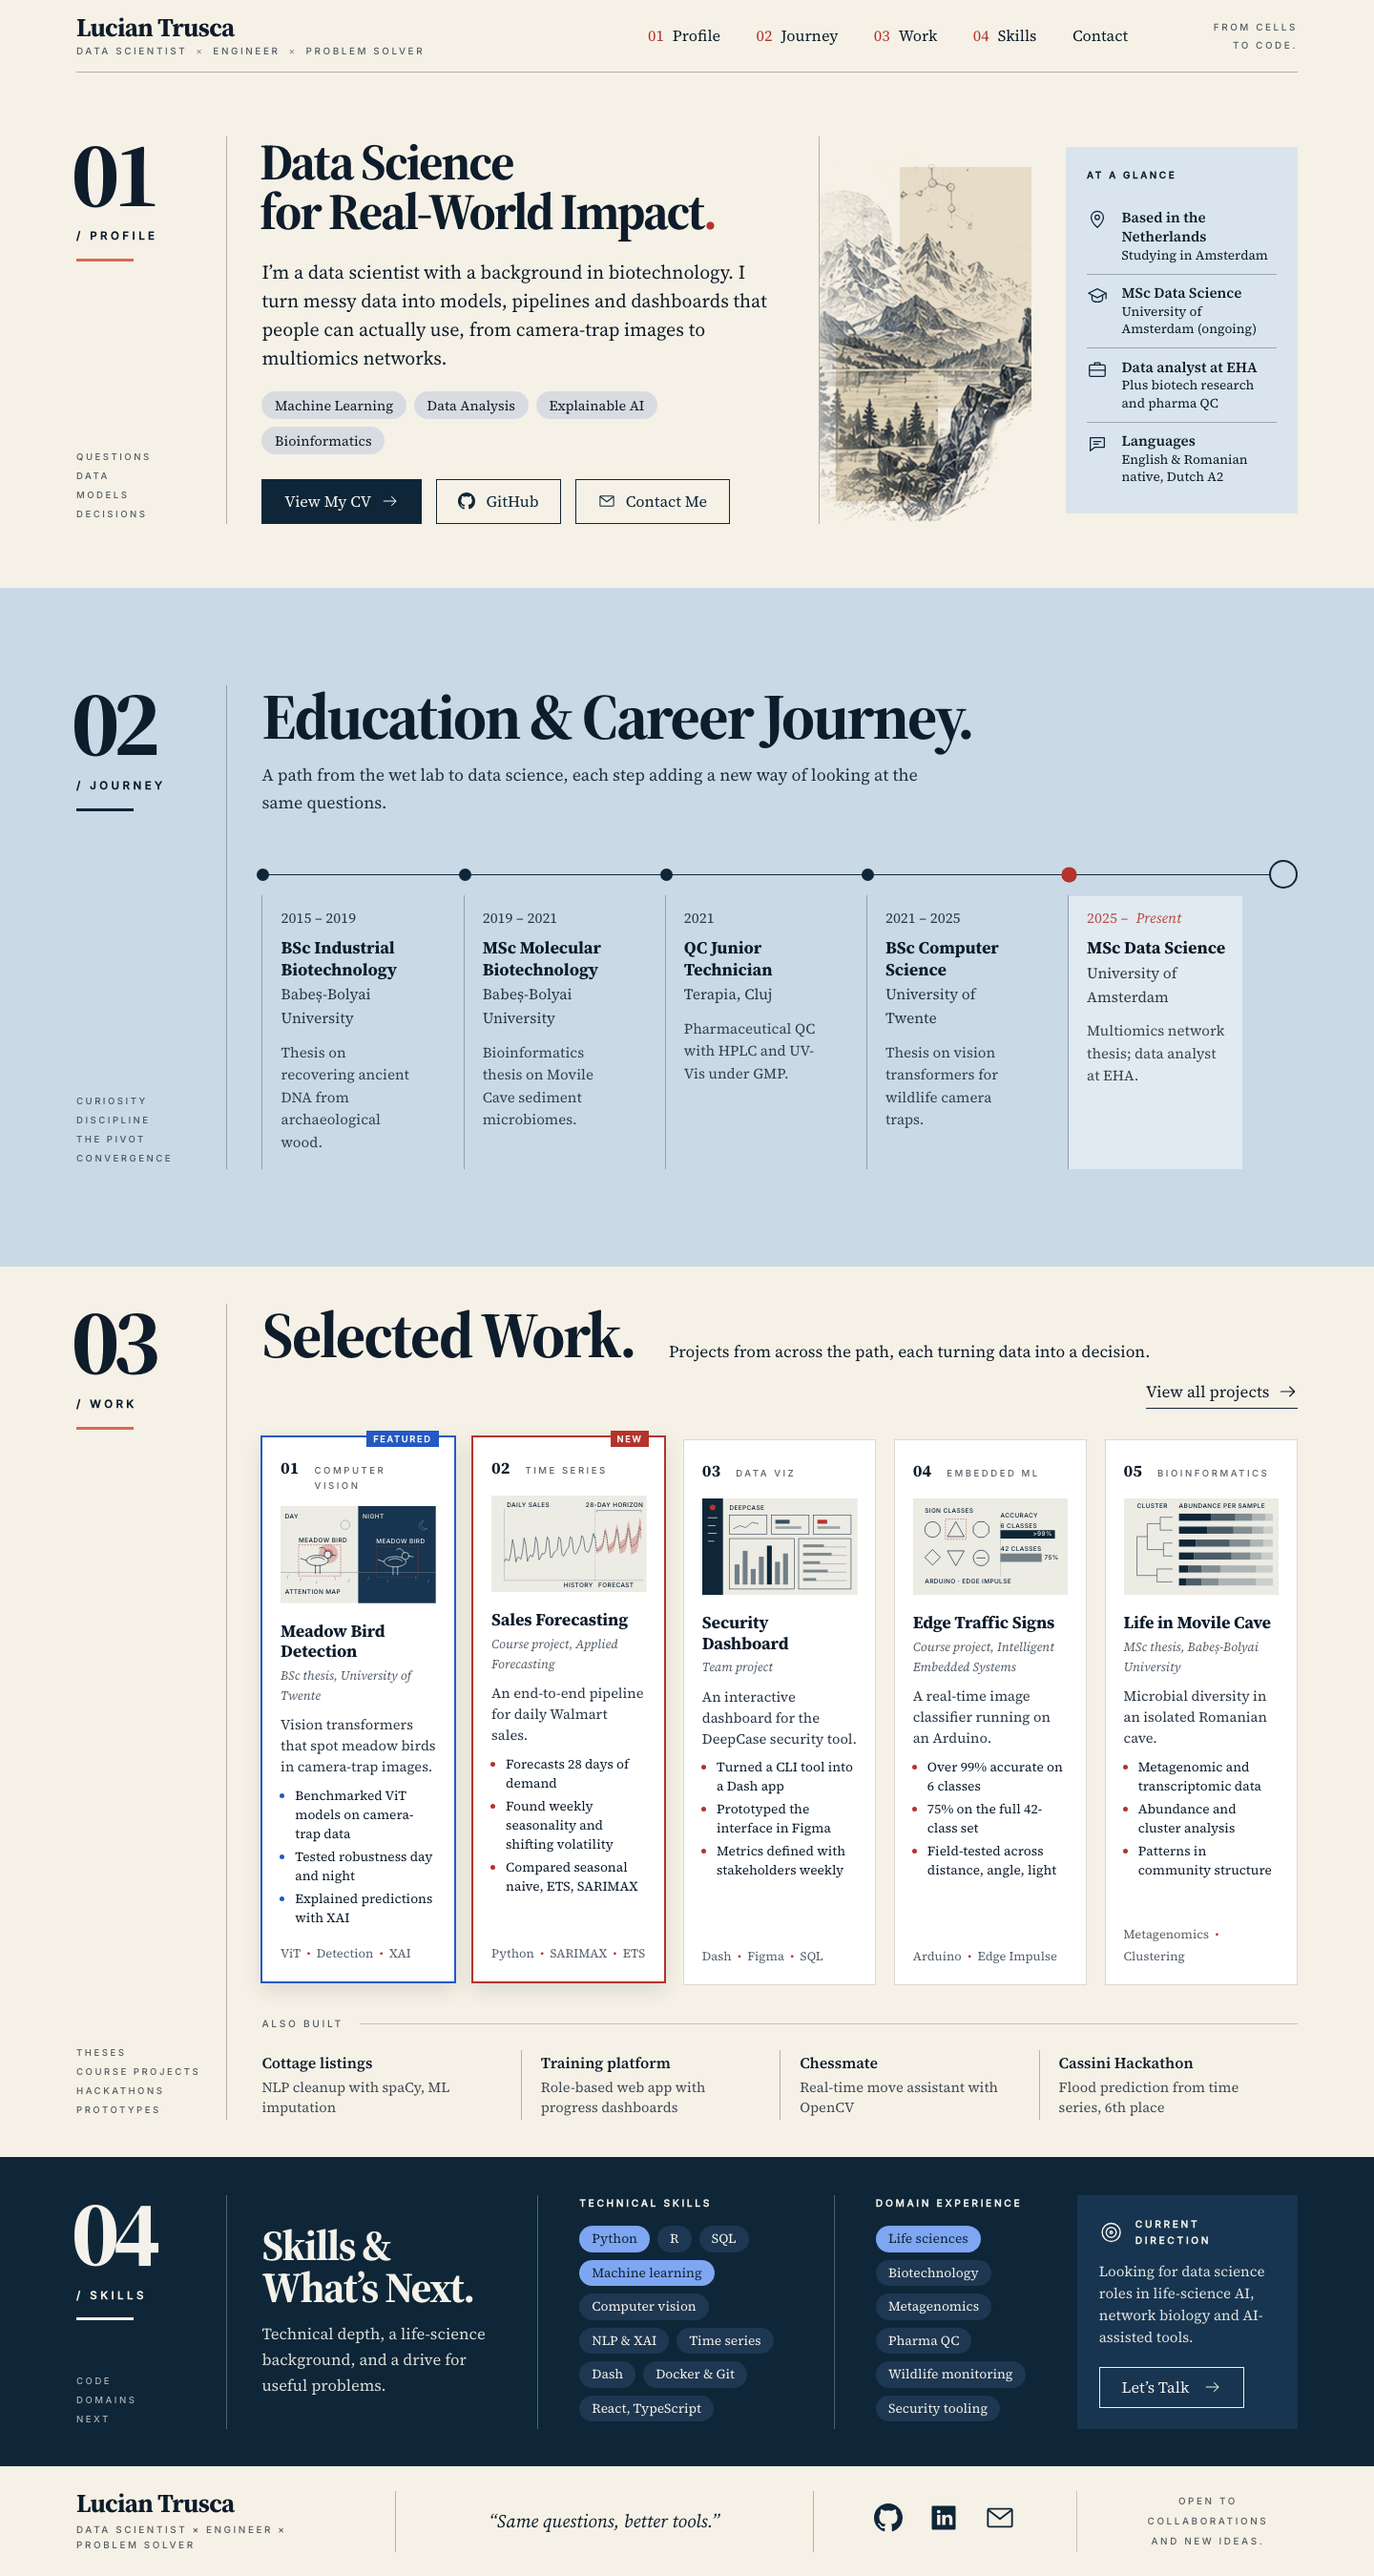
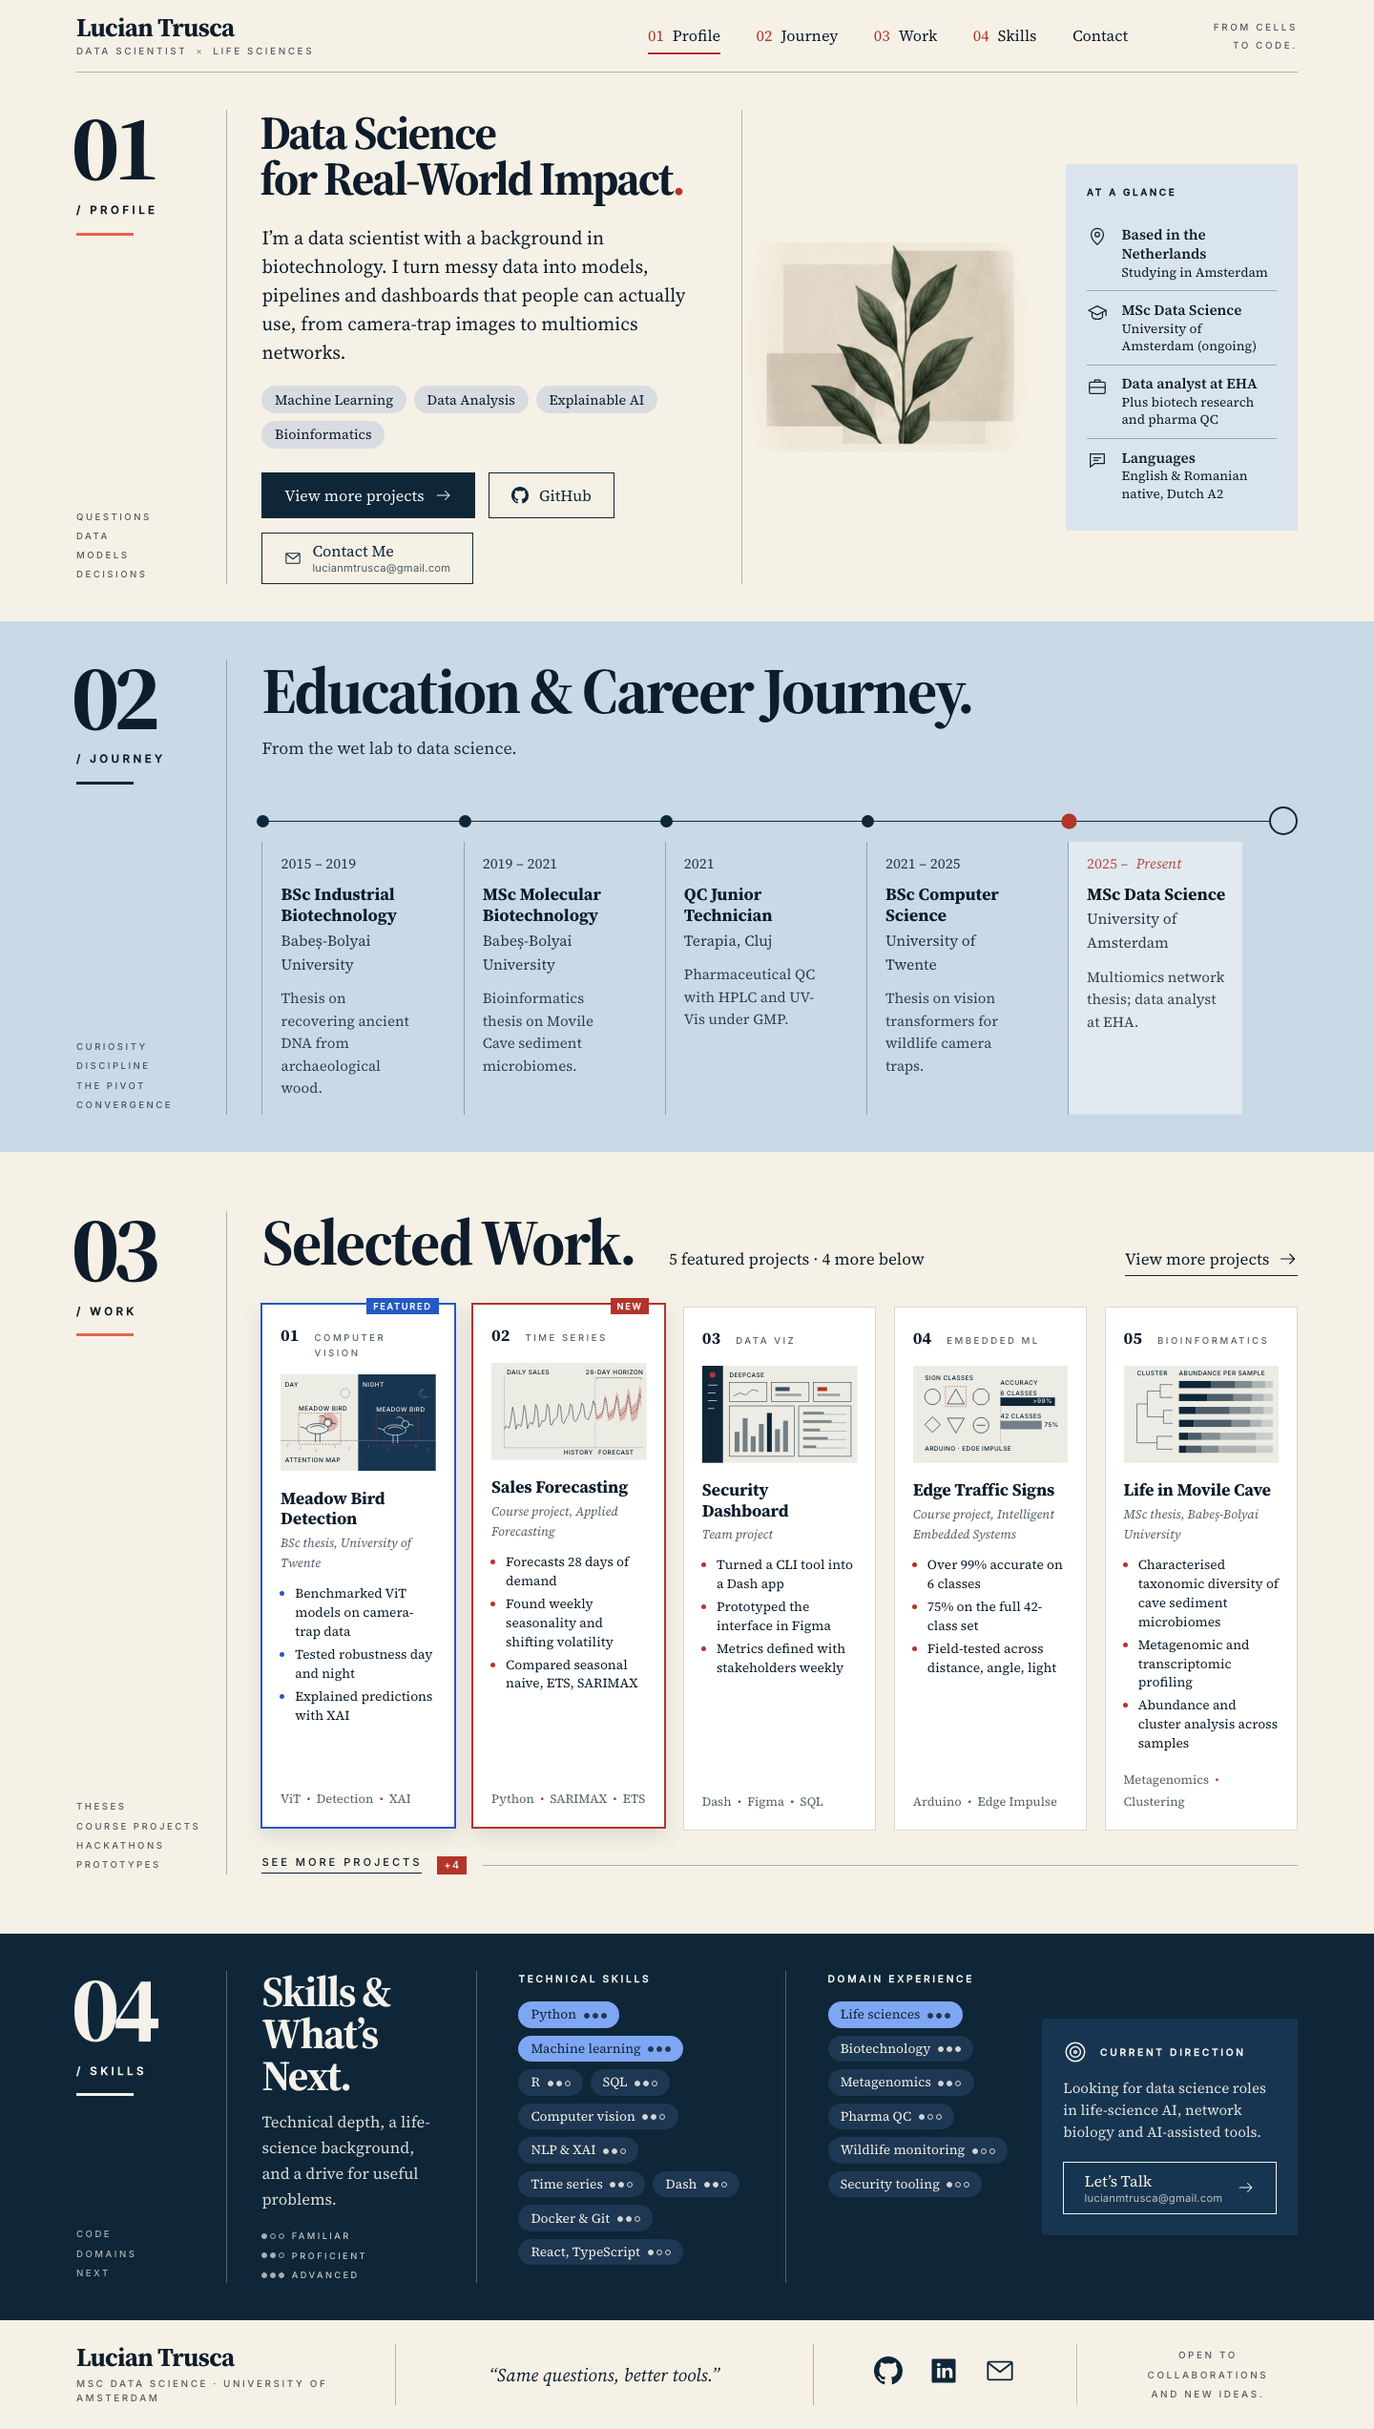
Leaf art, more-projects links, skill levels, see-more cards, nav highlight
Owner's revision list on top of cv-impact: leaf image, 'View more projects'
to GitHub, email on contact buttons, 1-3 level dots on skills, tagline and
footer line, shorter journey subtitle with content height, card descriptions
dropped, four extra projects behind 'See more', active-section nav.

diff --git a/src/data/site.ts b/src/data/site.ts
@@ -5,7 +5,7 @@ export const person = {
   email: 'lucianmtrusca@gmail.com',
   github: 'https://github.com/luciantrusca',
   linkedin: 'https://www.linkedin.com/in/lucian-trusca/',
-  tagline: ['Data scientist', 'Engineer', 'Problem solver'],
+  tagline: ['Data scientist', 'Life sciences'],
   motto: ['From cells', 'to code.'],
 };
 
@@ -27,7 +27,7 @@ export const profile = {
 export const journey = {
   keywords: ['Curiosity', 'Discipline', 'The pivot', 'Convergence'],
   title: 'Education & Career Journey.',
-  subtitle: 'A path from the wet lab to data science, each step adding a new way of looking at the same questions.',
+  subtitle: 'From the wet lab to data science.',
   steps: [
     { dates: '2015 – 2019', title: 'BSc Industrial Biotechnology', place: 'Babeș-Bolyai University', text: 'Thesis on recovering ancient DNA from archaeological wood.' },
     { dates: '2019 – 2021', title: 'MSc Molecular Biotechnology', place: 'Babeș-Bolyai University', text: 'Bioinformatics thesis on Movile Cave sediment microbiomes.' },
@@ -42,50 +42,53 @@ export type Badge = 'featured' | 'new';
 
 export const work = {
   keywords: ['Theses', 'Course projects', 'Hackathons', 'Prototypes'],
-  intro: 'Projects from across the path, each turning data into a decision.',
-  allProjects: 'https://github.com/luciantrusca?tab=repositories',
+  moreProjects: 'https://github.com/luciantrusca?tab=repositories',
   projects: [
     {
       badge: 'featured' as Badge, area: 'Computer vision', figure: 'birds' as Figure, title: 'Meadow Bird Detection',
-      text: 'Vision transformers that spot meadow birds in camera-trap images.',
       bullets: ['Benchmarked ViT models on camera-trap data', 'Tested robustness day and night', 'Explained predictions with XAI'],
       tags: ['ViT', 'Detection', 'XAI'],
       role: 'BSc thesis, University of Twente',
     },
     {
       badge: 'new' as Badge, area: 'Time series', figure: 'forecast' as Figure, title: 'Sales Forecasting',
-      text: 'An end-to-end pipeline for daily Walmart sales.',
       bullets: ['Forecasts 28 days of demand', 'Found weekly seasonality and shifting volatility', 'Compared seasonal naive, ETS, SARIMAX'],
       tags: ['Python', 'SARIMAX', 'ETS'],
       role: 'Course project, Applied Forecasting',
     },
     {
       area: 'Data viz', figure: 'dashboard' as Figure, title: 'Security Dashboard',
-      text: 'An interactive dashboard for the DeepCase security tool.',
       bullets: ['Turned a CLI tool into a Dash app', 'Prototyped the interface in Figma', 'Metrics defined with stakeholders weekly'],
       tags: ['Dash', 'Figma', 'SQL'],
       role: 'Team project',
     },
     {
       area: 'Embedded ML', figure: 'signs' as Figure, title: 'Edge Traffic Signs',
-      text: 'A real-time image classifier running on an Arduino.',
       bullets: ['Over 99% accurate on 6 classes', '75% on the full 42-class set', 'Field-tested across distance, angle, light'],
       tags: ['Arduino', 'Edge Impulse'],
       role: 'Course project, Intelligent Embedded Systems',
     },
     {
       area: 'Bioinformatics', figure: 'cave' as Figure, title: 'Life in Movile Cave',
-      text: 'Microbial diversity in an isolated Romanian cave.',
-      bullets: ['Metagenomic and transcriptomic data', 'Abundance and cluster analysis', 'Patterns in community structure'],
+      bullets: ['Characterised taxonomic diversity of cave sediment microbiomes', 'Metagenomic and transcriptomic profiling', 'Abundance and cluster analysis across samples'],
       tags: ['Metagenomics', 'Clustering'],
       role: 'MSc thesis, Babeș-Bolyai University',
     },
   ],
-  also: [
-    { title: 'Cottage listings', text: 'NLP cleanup with spaCy, ML imputation' },
-    { title: 'Training platform', text: 'Role-based web app with progress dashboards' },
-    { title: 'Chessmate', text: 'Real-time move assistant with OpenCV' },
-    { title: 'Cassini Hackathon', text: 'Flood prediction from time series, 6th place' },
+  // revealed by "See more projects"
+  extra: [
+    { area: 'NLP', title: 'Cottage Listings Cleanup', role: 'Data science & AI project',
+      bullets: ['Cleaned a real-world JSON dataset of listings', 'Standardised descriptions with spaCy', 'Filled missing values with ML models'],
+      tags: ['Python', 'spaCy', 'NLP'] },
+    { area: 'Web app', title: 'Training Management System', role: 'Course project, Data & Information',
+      bullets: ['Role-based app for admins, trainers, trainees', 'Courses, groups and progress tracking', 'Trainee dashboards with schedules'],
+      tags: ['JavaScript', 'SQL', 'REST'] },
+    { area: 'HCI', title: 'Chessmate Helper', role: 'Course project, Human Computer Interaction',
+      bullets: ['AI chess assistant with real-time object detection', 'User research with players of all levels', 'Personas and feedback flows'],
+      tags: ['Python', 'OpenCV', 'Figma'] },
+    { area: 'Hackathon', title: 'Flood Prediction', role: 'Cassini Hackathon, 6th place',
+      bullets: ['Humanitarian-focused team hackathon', 'ML flood prediction from time series', 'Presented the solution to a jury'],
+      tags: ['Python', 'ML', 'Geospatial'] },
   ],
 };
 
@@ -95,21 +98,23 @@ export const skills = {
   subtitle: 'Technical depth, a life-science background, and a drive for useful problems.',
   // `best` pills are lit by default; hovering another pill moves the light
   groups: [
+    // level: 1 familiar, 2 proficient, 3 advanced
     { title: 'Technical skills', pills: [
-      { name: 'Python', best: true }, { name: 'R' }, { name: 'SQL' }, { name: 'Machine learning', best: true },
-      { name: 'Computer vision' }, { name: 'NLP & XAI' }, { name: 'Time series' }, { name: 'Dash' },
-      { name: 'Docker & Git' }, { name: 'React, TypeScript' },
+      { name: 'Python', level: 3, best: true }, { name: 'Machine learning', level: 3, best: true },
+      { name: 'R', level: 2 }, { name: 'SQL', level: 2 }, { name: 'Computer vision', level: 2 },
+      { name: 'NLP & XAI', level: 2 }, { name: 'Time series', level: 2 }, { name: 'Dash', level: 2 },
+      { name: 'Docker & Git', level: 2 }, { name: 'React, TypeScript', level: 1 },
     ] },
     { title: 'Domain experience', pills: [
-      { name: 'Life sciences', best: true }, { name: 'Biotechnology' }, { name: 'Metagenomics' }, { name: 'Pharma QC' },
-      { name: 'Wildlife monitoring' }, { name: 'Security tooling' },
+      { name: 'Life sciences', level: 3, best: true }, { name: 'Biotechnology', level: 3 }, { name: 'Metagenomics', level: 2 },
+      { name: 'Pharma QC', level: 1 }, { name: 'Wildlife monitoring', level: 1 }, { name: 'Security tooling', level: 1 },
     ] },
   ],
   direction: 'Looking for data science roles in life-science AI, network biology and AI-assisted tools.',
 };
 
 export const footer = {
-  role: 'Data scientist × Engineer × Problem solver',
+  role: 'MSc Data Science · University of Amsterdam',
   quote: 'Same questions, better tools.',
   open: ['Open to collaborations', 'and new ideas.'],
 };

diff --git a/docs/design-brief.md b/docs/design-brief.md
@@ -148,6 +148,8 @@ Do not polish individual project descriptions before the layout exists; the wire
 
 **Revision 2 (owner feedback): the mockup's layout now wins over this brief's structural changes.** The owner found the phylogeny, asymmetric Work grid and 2/3 + 1/3 Toolkit "all over the place" and asked to follow the mockup. So: horizontal timeline, four equal project cards, title + four toolkit columns.
 
+**Revision 7 (branch `cv-impact-2`): owner's cut list.** Leaf illustration (`public/img/leaf.png`, 548 px wide, replace with hi-res if available) replaces the etched art. "View My CV" and "View all projects" both became "View more projects" linking to GitHub repositories (no CV link on the page by choice). Contact Me and Let's Talk show the email address. Skill pills carry 1–3 level dots with a legend. Tagline "Data scientist × Life sciences"; footer line "MSc Data Science · University of Amsterdam". Journey subtitle shortened and the band sizes to content. Work: project count line, card description lines removed, Movile Cave bullets made specific, and a native `<details>` "See more projects" reveals four extra cards (Cottages, Training system, Chessmate, Cassini). Nav underline follows the section in view (the page's only script). Deferred: per-project links, deploy.
+
 **Revision 6 (branch `cv-impact`): layout and positioning from `docs/mockup-v4.png`.** The headline is "Data Science for Real-World Impact." and the tagline "Data scientist × Engineer × Problem solver". Profile has skill pills, three navy buttons (View My CV, GitHub, Contact Me), the etched art over beige offset squares, and an "At a glance" panel (location, MSc, EHA, languages). Journey is "Education & Career Journey." with role / institution / one line per step and an open end ring. Work is on cream: five white cards with an italic role line, three outcome bullets and tags, plus "View all projects" linking to GitHub repositories. Skills (navy) has two spotlight pill groups and a Current direction card with Let's Talk. Buttons are navy (`--btn` / `--btn-ink` tokens). Bands keep revision 5's heights via `minH`; Work grew to about 104vh because of the bullets.
 
 **Revision 5 (branch `cv-color-blocks`): colour blocking from `docs/mockup-v3.png`.** The bands use `ChapterBand`'s `tone` prop: Profile cream, Journey sky, Work navy (cream cards; lighter red and blue via local token overrides), Toolkit sand. The rail rule now sits under `/ NAME`. The hero full stop is red, a steel-blue block sits behind the profile art, and the lit card lifts. Heights are unchanged from revision 4. Revision 4 is kept on `cv-color-splash`.
